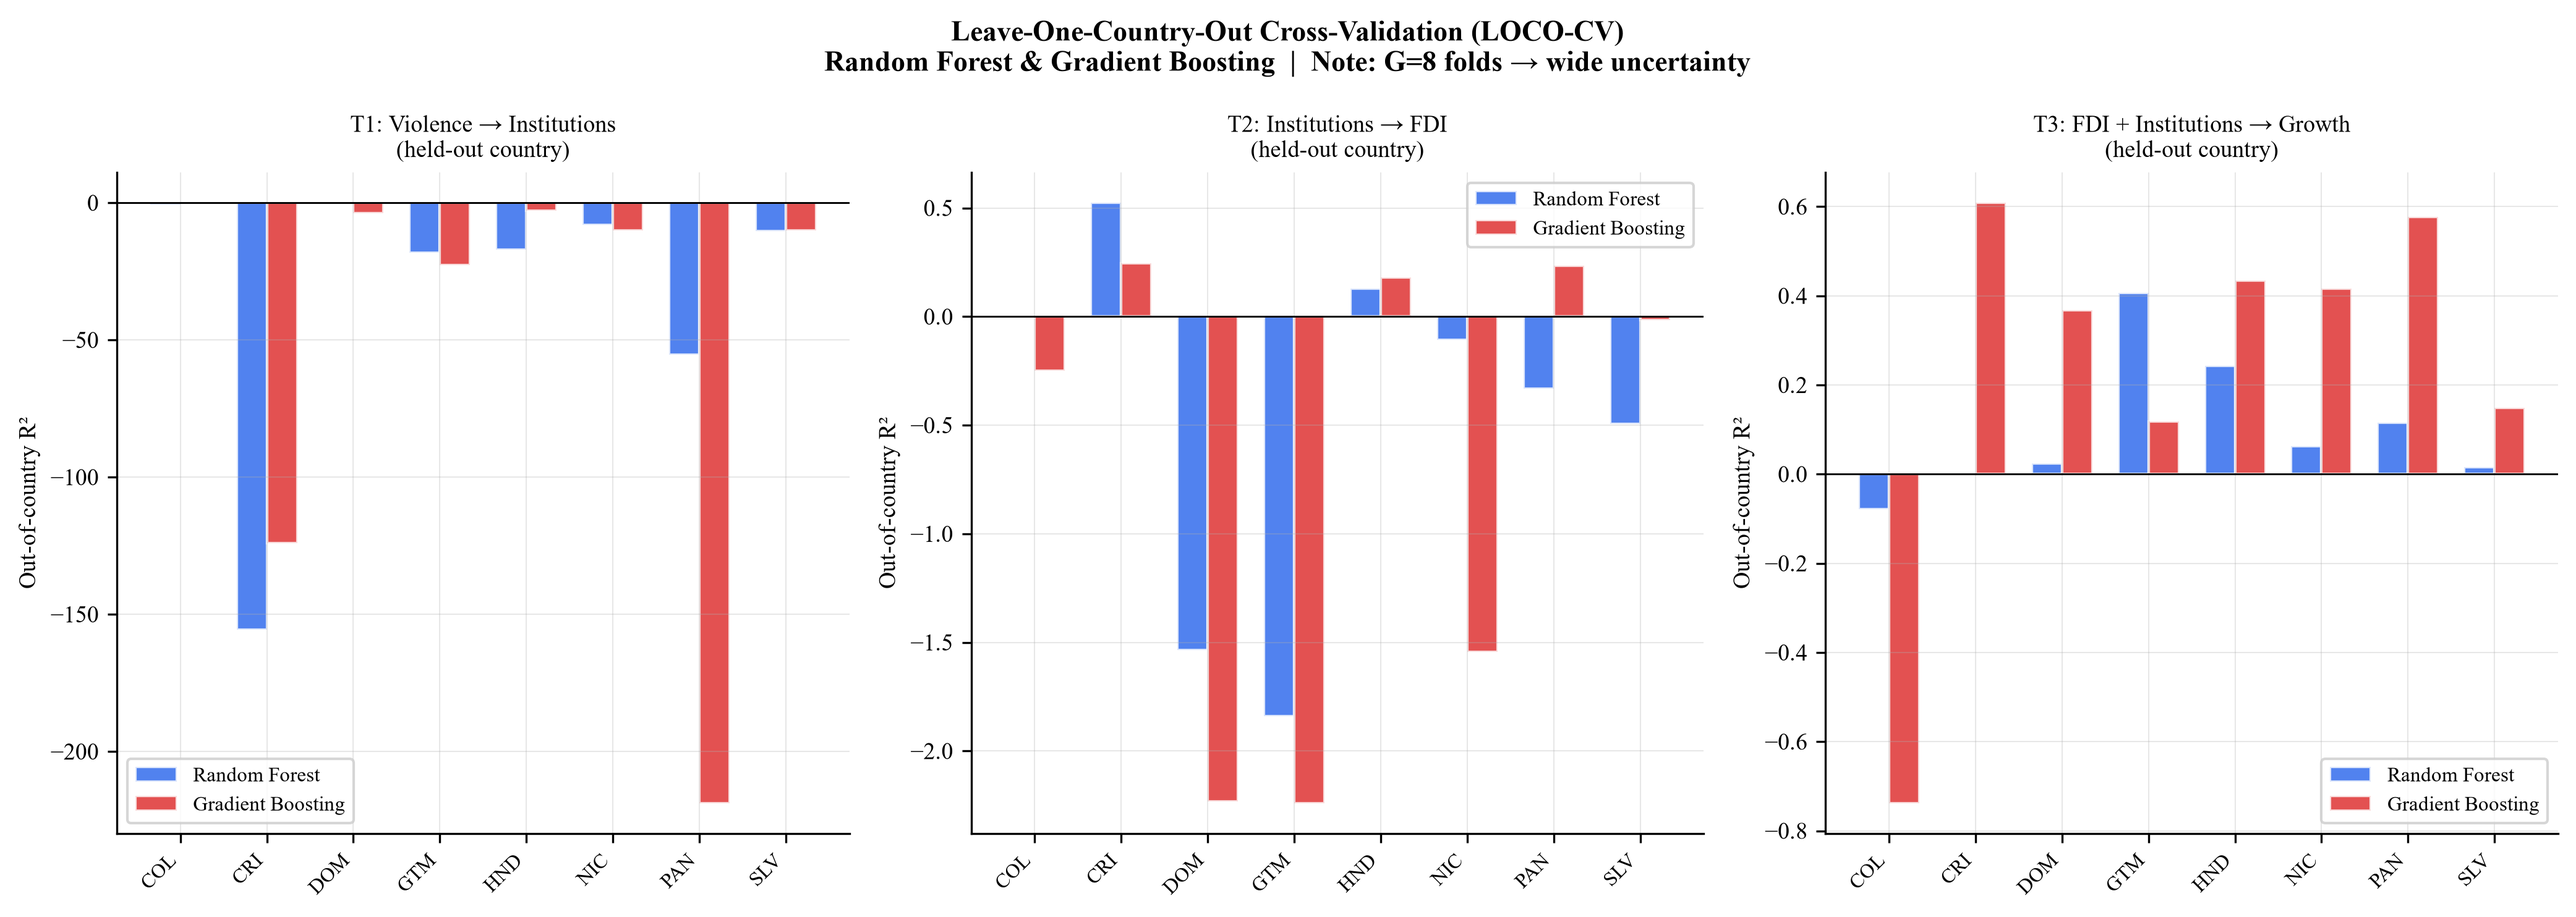
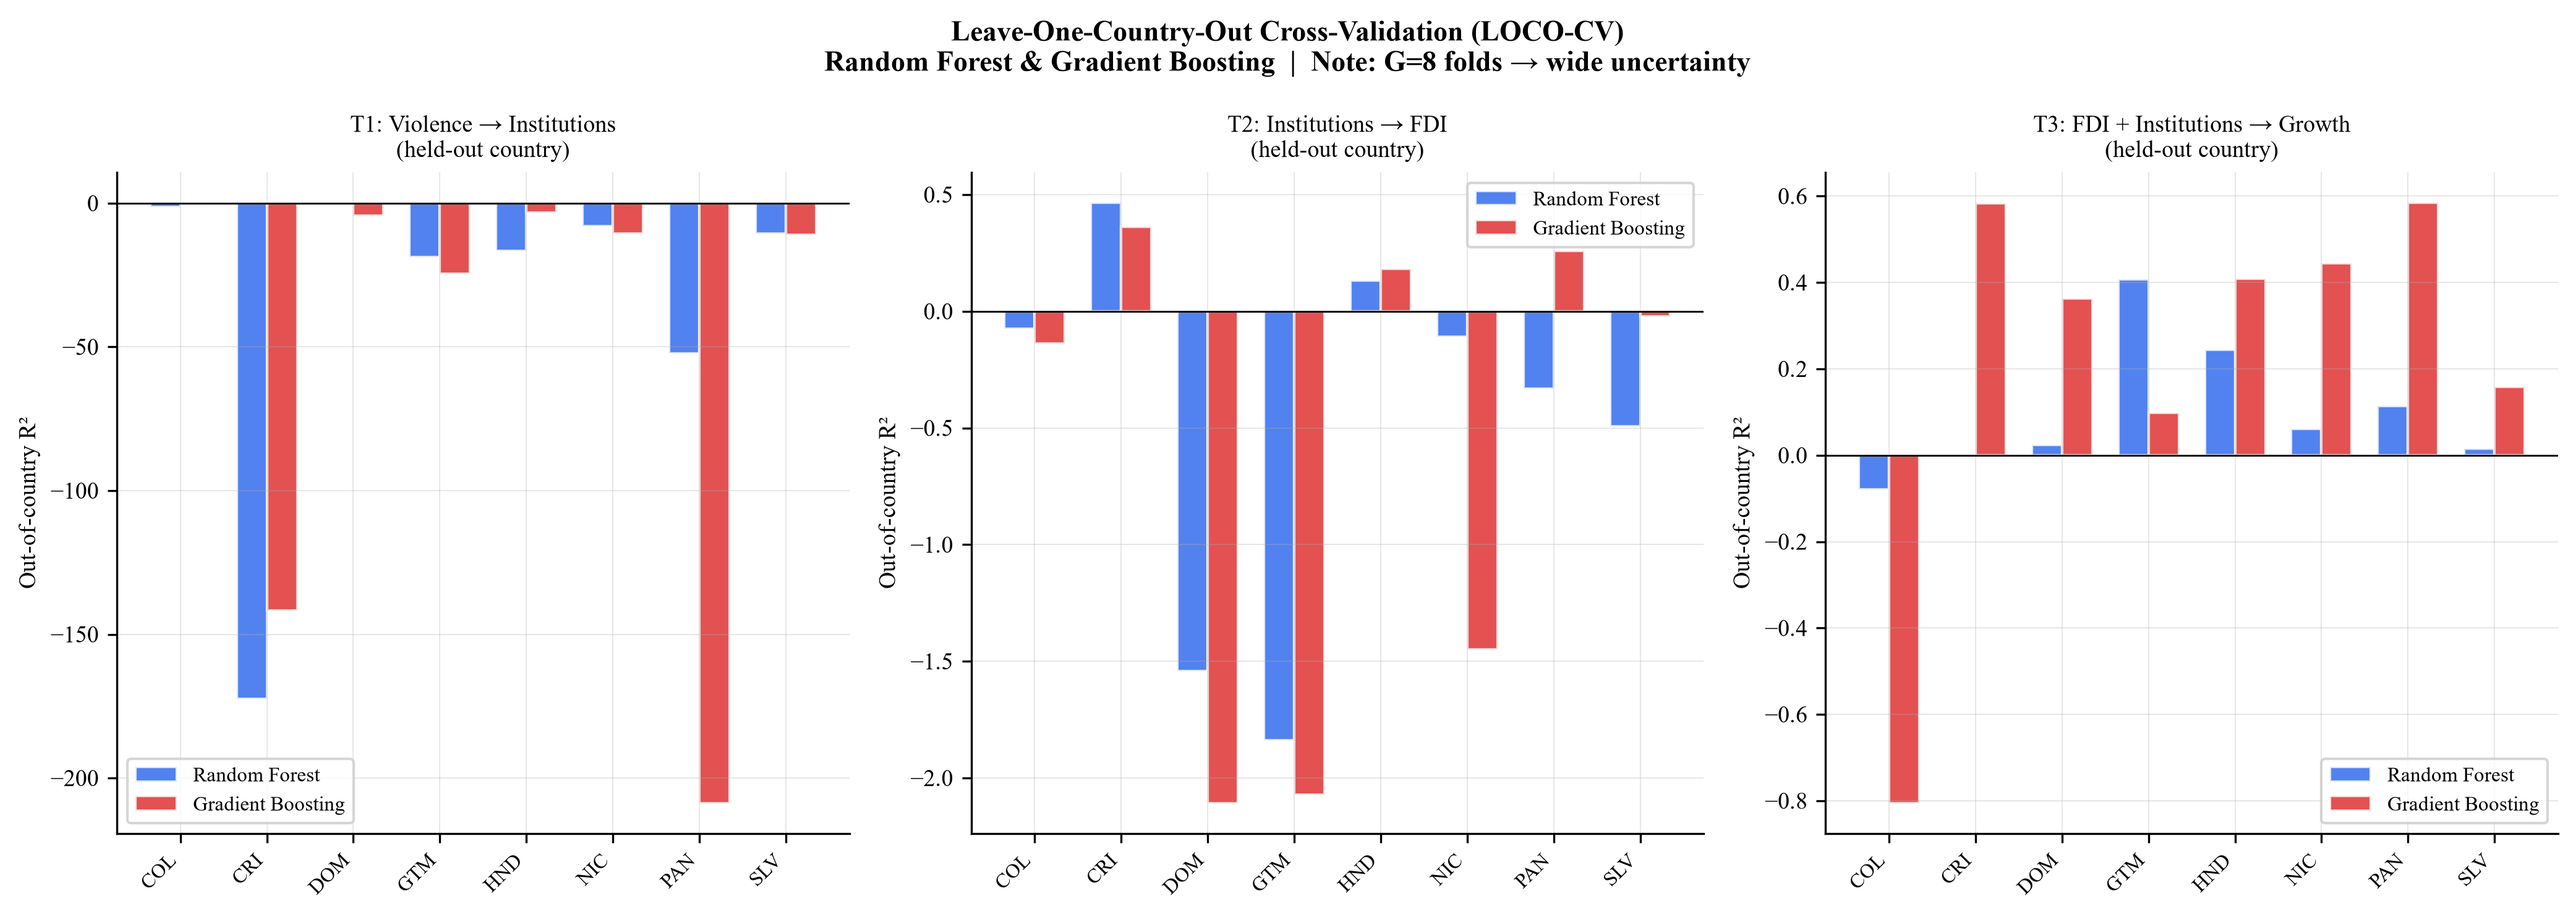
fix: remove LOCO-CV leakage in institution index; fix FE-ML convergence table
inst_avg is built once (Module 01) by z-scoring the three WGI
indicators using the mean/SD of the full pooled panel, then averaging.
When inst_avg was used in Module 06 as the LOCO target (T1) or as a
feature (T2, T3), the held-out country's own observations had already
contributed to those global scaling constants, so the "held-out
country never seen" claim of Leave-One-Country-Out was not strictly
true for any task touching inst_avg. loco_cv() now recomputes inst_avg
inside each fold using only the training countries' mean/SD, applied
identically to train and test rows.

Also fix the FE-vs-ML convergence table (Section 06-C): it looked up
"coef_key" (a key that never exists -- the real key is "coef_key_cl")
and "pval_key_cl" directly on EQ3's dict-shaped export, so the table
always printed "?" for all three equations' FE coefficient/p-value/
direction columns. Now uses get_fe_key_stats() and shows real numbers.

diff --git a/econometric_pipeline/pipeline/06_ml_triangulation.py b/econometric_pipeline/pipeline/06_ml_triangulation.py
@@ -87,7 +87,7 @@ import sys
 sys.path.insert(0, str(Path(__file__).parent))
 from utils import (
     set_plot_style, section, subsection, ok, warn, err, bold, sig_stars,
-    save_json, make_output_dirs, ENTITY_COL, TIME_COL,
+    save_json, make_output_dirs, ENTITY_COL, TIME_COL, get_fe_key_stats,
 )
 
 set_plot_style()
@@ -177,6 +177,12 @@ TASKS = [
 # LOCO CROSS-VALIDATION FUNCTION
 # ════════════════════════════════════════════════════════════════════════
 
+# Raw WGI indicators behind inst_avg (see Module 01). Needed here because
+# inst_avg itself must be recomputed INSIDE each LOCO fold -- see docstring
+# of loco_cv below ("fold-safe institution index").
+INST_VARS_RAW = ["rule_of_law", "control_corruption", "political_stability"]
+
+
 def loco_cv(
     df:       pd.DataFrame,
     target:   str,
@@ -203,19 +209,49 @@ def loco_cv(
     model instead, which is the standard practice for interpretability
     (Molnar 2022 §9.5). The LOCO loop serves exclusively for predictive
     performance evaluation.
+
+    Fold-safe institution index (LEAKAGE FIX)
+    ──────────────────────────────────────────
+    inst_avg is built in Module 01 by z-scoring rule_of_law,
+    control_corruption and political_stability using the mean/SD of the
+    FULL pooled panel (all 8 countries), THEN averaging. When inst_avg is
+    used here as the LOCO target (T1) or as a feature (T2, T3), the
+    held-out country's own observations already contributed to those
+    global scaling constants -- so the "held-out country never seen"
+    claim this function makes is not strictly true for any task that
+    touches inst_avg.
+    The leak is on the scaling constants only (not on the functional
+    relationship being learned), so it is a second-order effect, but it
+    is a genuine violation of LOCO purity that is straightforward to
+    remove: whenever inst_avg is the target or among the features, this
+    function recomputes it from INST_VARS_RAW using the mean/SD of the
+    TRAINING countries only, applied identically to train and test rows.
     """
     feats_a   = [f for f in features if f in df.columns]
-    work_cols = [target, ENTITY_COL] + feats_a
+    needs_inst_refit = (target == "inst_avg") or ("inst_avg" in feats_a)
+    extra_cols = [c for c in INST_VARS_RAW if c in df.columns] if needs_inst_refit else []
+
+    work_cols = list(dict.fromkeys([target, ENTITY_COL] + feats_a + extra_cols))
     df_work   = df[work_cols].dropna()
 
     fold_results = []
     for country in COUNTRIES:
-        train = df_work[df_work[ENTITY_COL] != country]
-        test  = df_work[df_work[ENTITY_COL] == country]
+        train = df_work[df_work[ENTITY_COL] != country].copy()
+        test  = df_work[df_work[ENTITY_COL] == country].copy()
 
         if len(train) < 20 or len(test) < 3:
             fold_results.append({"country": country, "r2": np.nan, "rmse": np.nan})
             continue
+
+        if needs_inst_refit:
+            # Re-fit the z-score scaling constants on TRAINING countries only,
+            # then apply them to both train and test (held-out country never
+            # contributes to mu/sigma). Mirrors Module 01's construction
+            # (z-score each WGI indicator, then average across the three).
+            mu    = train[INST_VARS_RAW].mean()
+            sigma = train[INST_VARS_RAW].std(ddof=0).replace(0, 1.0)
+            train["inst_avg"] = ((train[INST_VARS_RAW] - mu) / sigma).mean(axis=1)
+            test["inst_avg"]  = ((test[INST_VARS_RAW]  - mu) / sigma).mean(axis=1)
 
         X_train = train[feats_a].values
         y_train = train[target].values
@@ -691,12 +727,20 @@ for task in TASKS:
     shap_rk     = ml_res.get("key_shap_rank")
 
     # FE results for this equation's key feature
+    # NOTE (fixed): json/02_fe_results.json stores EQ1/EQ2 under singular
+    # keys ("coef_key_cl", "pval_key_cl", ...) but EQ3 under dict-valued
+    # keys ("params_cl", "pvals_cl", ...) because EQ3 has multiple key
+    # regressors. A direct fe_eq.get("coef_key", ...) silently returned
+    # NaN for ALL three equations (the singular key is "coef_key_cl", not
+    # "coef_key"), so this table always printed "?" — get_fe_key_stats
+    # (utils.py) normalises both shapes.
     eq_map = {"inst_avg": "EQ1", "fdi_percent_gdp": "EQ2", "gdp_growth": "EQ3"}
     eq_key = eq_map.get(task["target"], "")
     fe_eq  = fe_data.get(eq_key, {})
+    fe_stats = get_fe_key_stats(fe_eq, key_feature)
 
-    fe_coef  = fe_eq.get("coef_key",     np.nan)
-    fe_pval  = fe_eq.get("pval_key_cl",  np.nan)
+    fe_coef  = fe_stats["coef"]
+    fe_pval  = fe_stats["pval_cl"]
     fe_sig   = sig_stars(fe_pval) if not np.isnan(float(fe_pval if fe_pval is not None else np.nan)) else "?"
     fe_coef_str = f"{fe_coef:.4f}" if fe_coef is not None and not np.isnan(float(fe_coef)) else "?"
     fe_pval_str = f"{fe_pval:.4f}" if fe_pval is not None and not np.isnan(float(fe_pval)) else "?"
